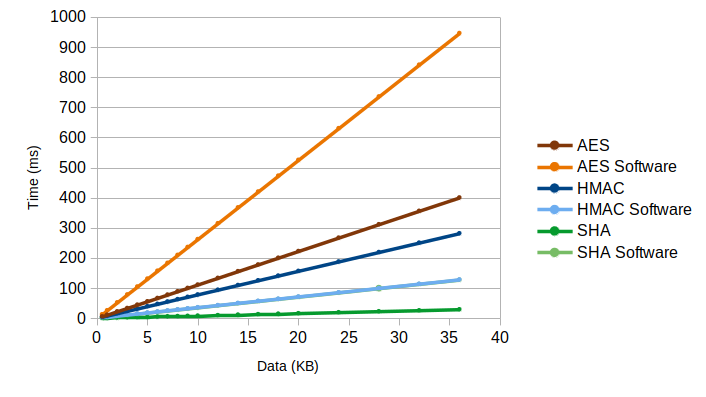
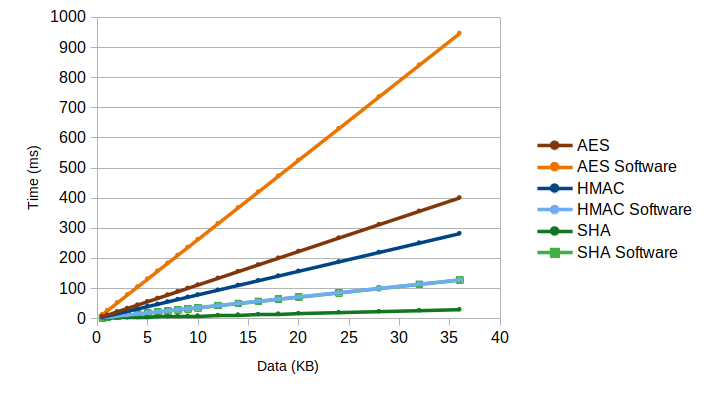
Performance writeup of core software comparison

diff --git a/Chapters/Thesis-MSc-Chapter_6.tex b/Chapters/Thesis-MSc-Chapter_6.tex
@@ -71,7 +71,7 @@ All the security core accelerators of the smartfusion2 SoC were tested. This inc
 As discussed before, all services were tested using the two presented configurations. The results of the second configuration are significantly more stable and will are presented next.
 Twenty different data sizes were used in the test, from 0.5 KB to 36 KB.
 
-The services were tested taking into account three different time components \(T_{total} = T_{call} + T_{transmittion} + T_{service}\), with the first test configuration. The call fraction is the time it takes calling the PKCS\#11 API, before any data is transmitted or the service is executed. From the results, it can be concluded this component's impact on performance is negligible, since it is almost always 0.
+The services were tested taking into account three different time components \(T_{Total} = T_{Call} + T_{Transmittion} + T_{Service}\), with the first test configuration. The call fraction is the time it takes calling the PKCS\#11 API, before any data is transmitted or the service is executed. From the results, it can be concluded this component's impact on performance is negligible, since it is almost always 0.
 Predictably, the transmission time always follow the performance model studied in the previous section.
 Thus, the following security core and implemented services tests focused on solely measuring the performance of the service. To get a complete conclusion of the performance of the overall system, the total service processing time can be added to the serial port time.
 Regarding the time test results, all services followed a near perfect linear evolution in function of the processed data size. Thus, each accelerator's performance can be modeled with a formula composed of two different components \ref{eq:linear-eq}, a factor independent of the data being processed, present in every service call, and a component dependent on the data size.
@@ -101,27 +101,27 @@ This graphic represents the throughput calculated from the processing time resul
 
 % -----------------------------------------------------
 % -----------------------------------------------------
-\subsubsection{Software Comparison}\label{chap:evaluation:services:software}
+\subsubsection{Core/Software Comparison}\label{chap:evaluation:services:software}
 
-% Dois bibliotecas foram usadas, uma para AES e a outra para SHA-256 e HMAC-SHA-256. Esta ultima foi a mesma utilizada para computar hmac continuamente no serviços de secure comms.
-% https://github.com/intel/tinycrypt
-% Mbedtls foi experimentada, retirando todas os algoritmos desnecessários mas ocupada demasiado espaço para incluir na placa limitada a 64 KB de RAM.
-
-% AES
-
-% HMAC
-
-% SHA
-% Os resultados de HMAC e SHA é esperado que seja mt similar devido ao HMAC ser baseado em 2 operações de sha. Olhando para os resultados de cores, são estranhos devido ao desempenho consideralvemente mais lento do HMAC comparado a SHA.
-% Comparado aos resultados com software, no qual HMAC é neglegivelmente mais lento, HMAC e SHA tem performance sobreposta, um pouco mais lento que o core de SHA mas consideravelmente mais rápido do que HMAC.
-% Não encontrei nenhuma explicação razoável para esta imensa descrepancia. Uma das razões que pode contribuir é que a implementalão de HMAC é resistente a ataques diferenciais DPA, embora isso n explica a descrepancia com a performance do core de SHA.
+The SHA and HMAC performance difference results were puzzling. The HMAC data dependent portion of 7.815 ms is nearly 10 times higher than the SHA value. This means HMAC time performance degrades nearly 10 times faster compared to the SHA performance. This is a surprising result since the HMAC algorithm is essentially two SHA computations, so the results were expected to be similar.
+For this reason, a lightweight implementation of HMAC, SHA and AES was included in the board for comparison. The library used for HMAC and SHA is \cite{ogayHMAC}, and for AES \cite{tinycrypt}. 
 
 \begin{figure}[h!]
 	\centering
 	\includegraphics[width=0.9\textwidth]{./Images/software-core-time.png}
-	\caption{Performance comparison of board's services compared to a software implementation}
+	\caption{Performance comparison of board's cores to a software implementation}
 	\label{fig:performance:software-core-time}
 \end{figure}
+
+Analysing the time performance results in figure \ref{fig:performance:software-core-time}, as expected, the SHA and HMAC software results are almost identical, the HMAC is only a slightly worse performer. Compared to the core results, the SHA core is significantly faster, and deteriorates very slowly as data size increases. The opposite happens for the HMAC core. It is convincingly a worst performer compared to the software implementation, both HMAC and SHA. 
+This is a incomprehensible result, as there is no clear reason for the performance degradation results. One could think it could be caused by the \ac{DPA} mitigations in place, but it would still not explain the meaningful discrepancy compared to the SHA performance, which also includes these mitigations.
+The AES software implementation was tested with a 256 bit key in CBC mode. As expected it performs worse than the core service.
+
+% -----------------------------------------------------
+% -----------------------------------------------------
+\subsubsection{Memory Performance}\label{chap:evaluation:services:memory}
+
+\input{tables_and_code/memory-model.tex}
 
 % -----------------------------------------------------
 % -----------------------------------------------------
@@ -149,7 +149,7 @@ The median average percentage error for the encryption/decryption and MAC and \a
 \end{figure}
 
 Figure \ref{fig:performance:services-tput} plots the results for throughput (KB/s) for the implemented services.
-Encrypt/decryption and MAC services' throughput stabilizes at around 52.5 Kb/s, while \ac{ECDSA} and key importation present a somewhat linear scalability as data size increases.
+Encrypt/decryption and MAC services' throughput stabilizes at around 68 Kb/s, while \ac{ECDSA} and key importation present a somewhat linear scalability as data size increases.
 
 \begin{figure}[h!]
 	\centering

diff --git a/tables_and_code/cores-model.tex b/tables_and_code/cores-model.tex
@@ -11,17 +11,3 @@ MAE       & 0.12\% & 0.84\% & 0.13\% & 2.29\% & -       & -  & - \\ \hline
 \caption{Security services time values according to a linear model}
 \label{tab:core-model}
 \end{table}
-
-\begin{table}[h!]
-\centering
-\def\arraystretch{1.5}
-\begin{tabular}{|c|c|c|c|c|c|c|}
-\hline
-Time (ms) & RAM Op. & Write RAM & Read NVM & Write NVM & Fetch PUF & Enroll PUF \\ \hline
-Constant  & 0.085     & 0.012     & 0.01     & 8.03      & 128.49    & 747.84  \\ \hline
-Data (KB) & 0.34     & 0.014     & 0.02     & 298.10    & 0.006     & 0.008  \\ \hline
-MAE       & 1.90\%    & 2.76\%    & 3.76\%   & 0.31\%    & 0.17\%    & 0.06\%  \\ \hline
-\end{tabular}
-\caption{Smartfusion2 memory performance time values according to a linear model}
-\label{tab:core-model}
-\end{table}

diff --git a/tables_and_code/memory-model.tex b/tables_and_code/memory-model.tex
@@ -1,0 +1,13 @@
+\begin{table}[h!]
+\centering
+\def\arraystretch{1.5}
+\begin{tabular}{|c|c|c|c|c|c|c|}
+\hline
+Time (ms) & RAM Op. & Write RAM & Read NVM & Write NVM & Fetch PUF & Enroll PUF \\ \hline
+Constant  & 0.085     & 0.012     & 0.01     & 8.03      & 128.49    & 747.84  \\ \hline
+Data (KB) & 0.34     & 0.014     & 0.02     & 298.10    & 0.006     & 0.008  \\ \hline
+MAE       & 1.90\%    & 2.76\%    & 3.76\%   & 0.31\%    & 0.17\%    & 0.06\%  \\ \hline
+\end{tabular}
+\caption{Smartfusion2 memory performance time values according to a linear model}
+\label{tab:core-model}
+\end{table}
